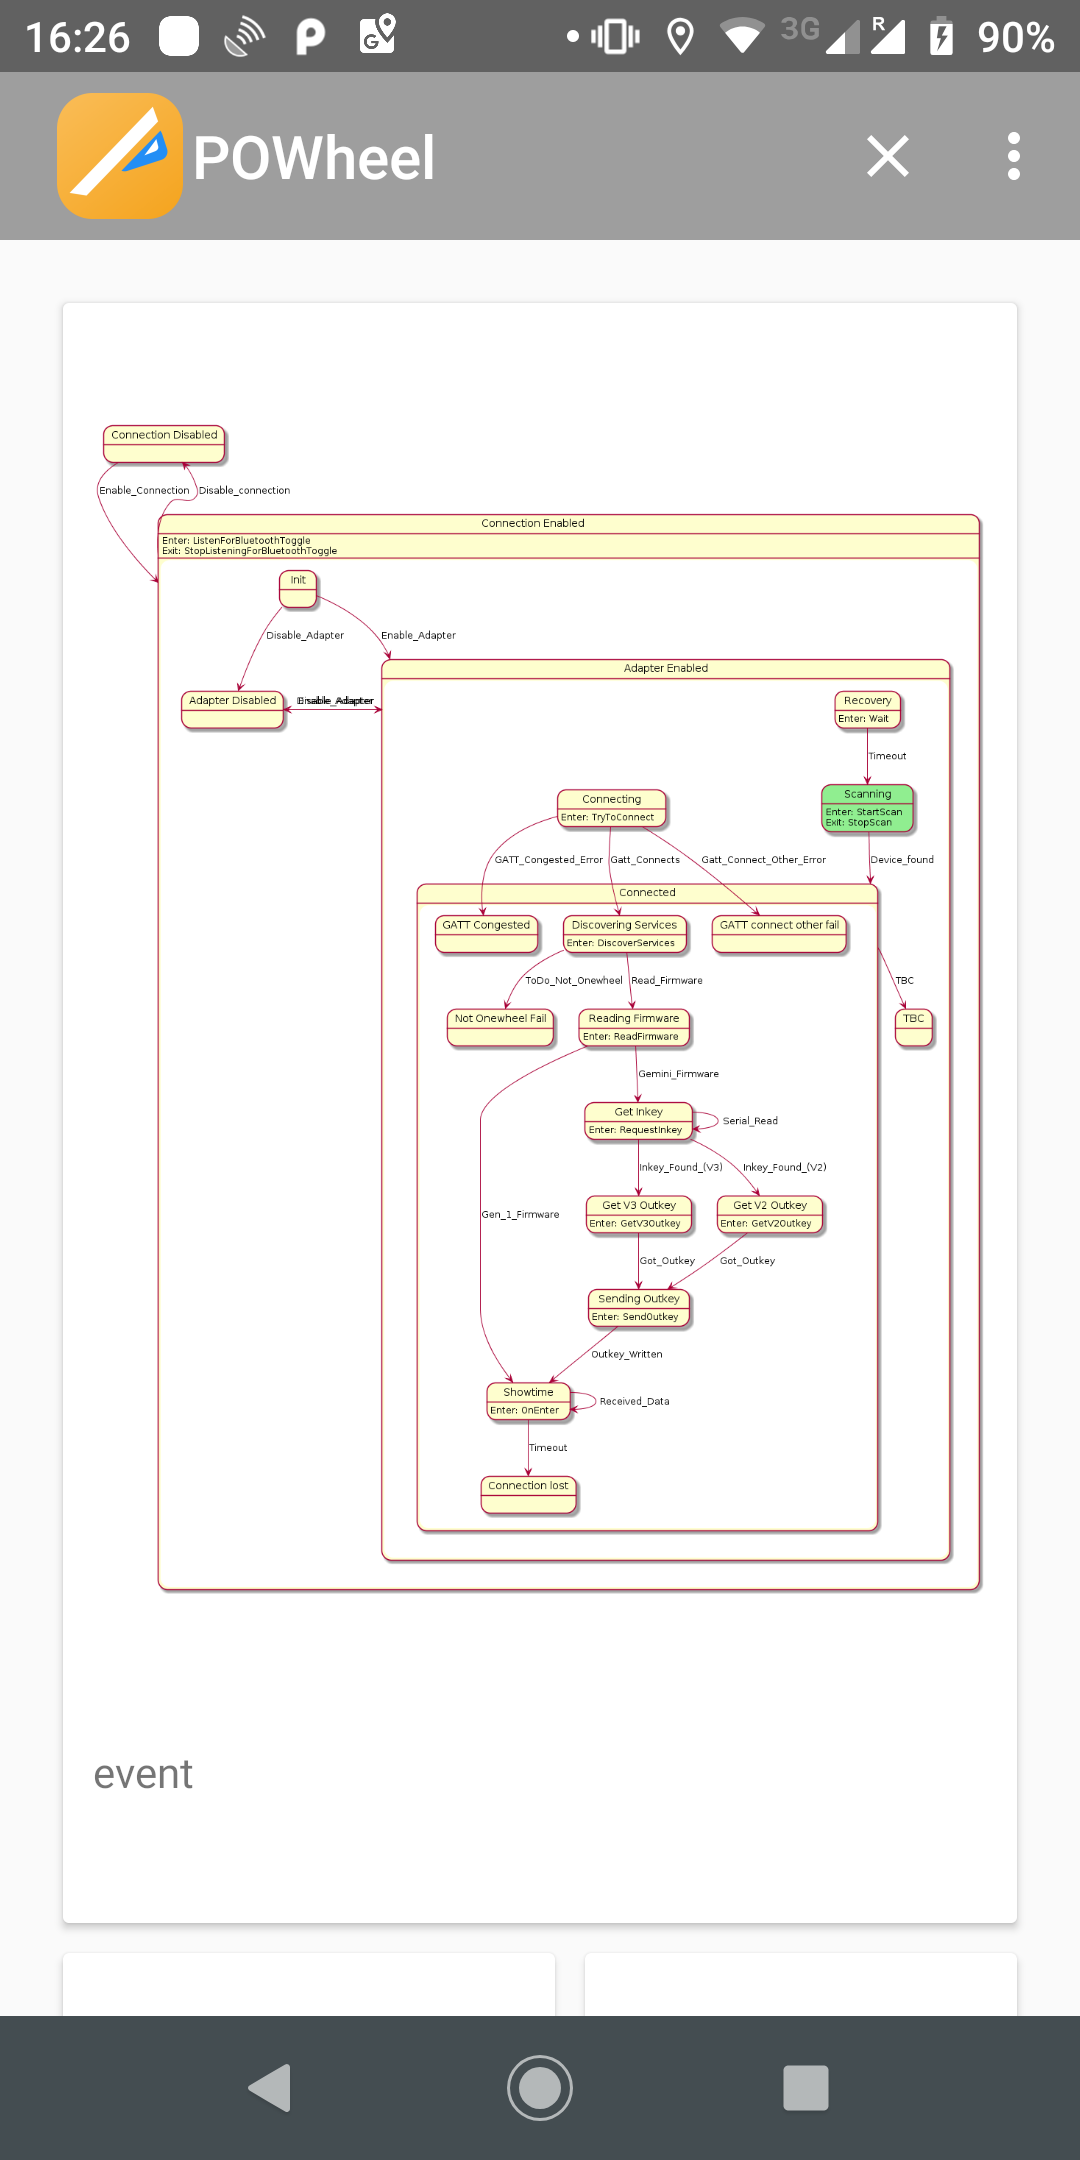
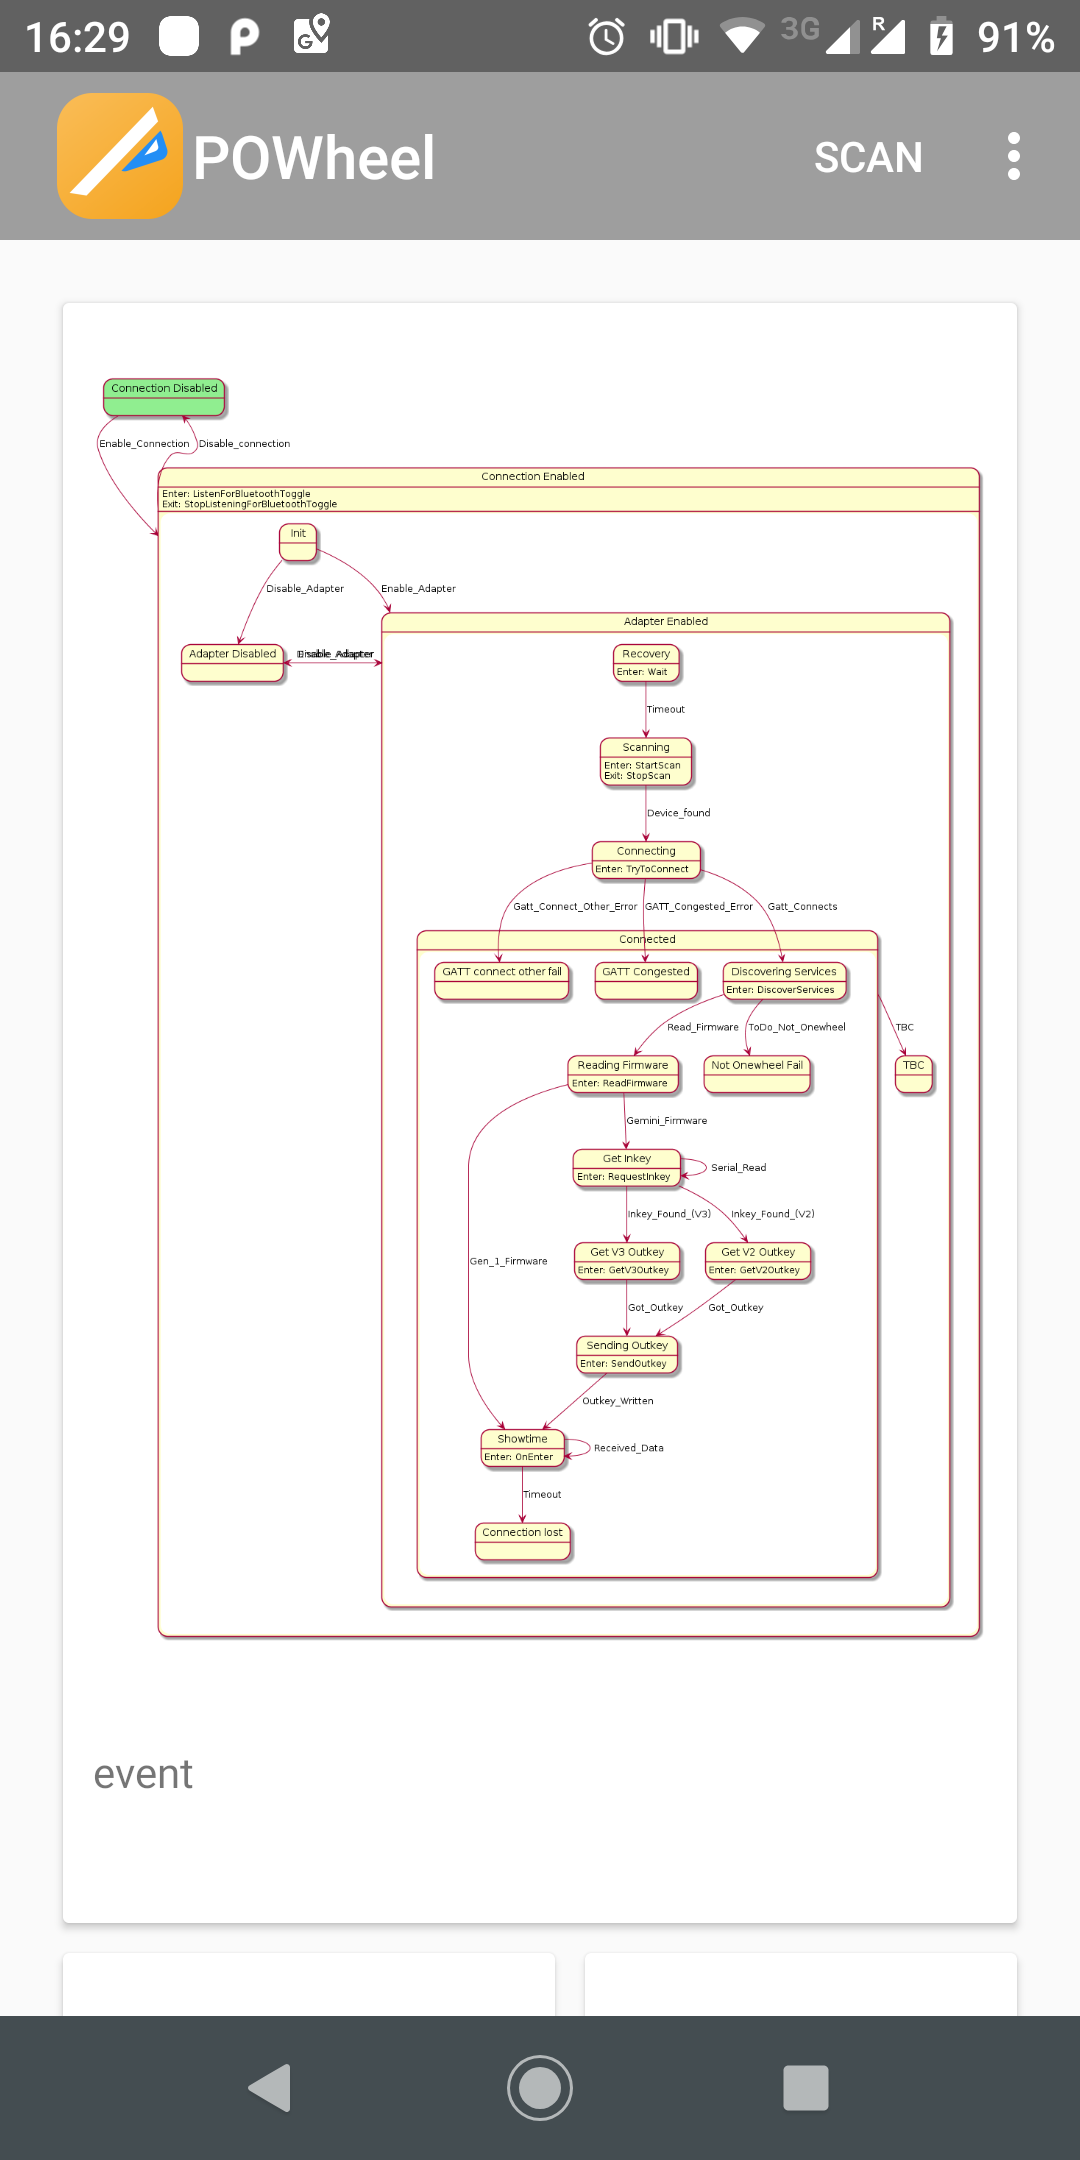
WIP

diff --git a/app/src/main/java/net/kwatts/powtools/util/BluetoothUtilImpl.java b/app/src/main/java/net/kwatts/powtools/util/BluetoothUtilImpl.java
@@ -597,7 +597,7 @@ public class BluetoothUtilImpl implements BluetoothUtil, DiagramCache.CacheFille
             recoveryState = new RecoveryState();
 
             State discoverServices = new DiscoverSericesStateBuilder().build();
-            scanningState.addHandler(events.ONEWHEEL_FOUND, discoverServices, TransitionKind.External);
+            scanningState.addHandler(events.ONEWHEEL_FOUND, states.connectingState, TransitionKind.External);
 
             tbcState = new State(ConnectionEnabledStateMachineBuilder.AdapterEnabledStateMachineBuilder.TBC);
             discoverServices.addHandler(ConnectionEnabledStateMachineBuilder.AdapterEnabledStateMachineBuilder.TBC, tbcState, TransitionKind.External);
